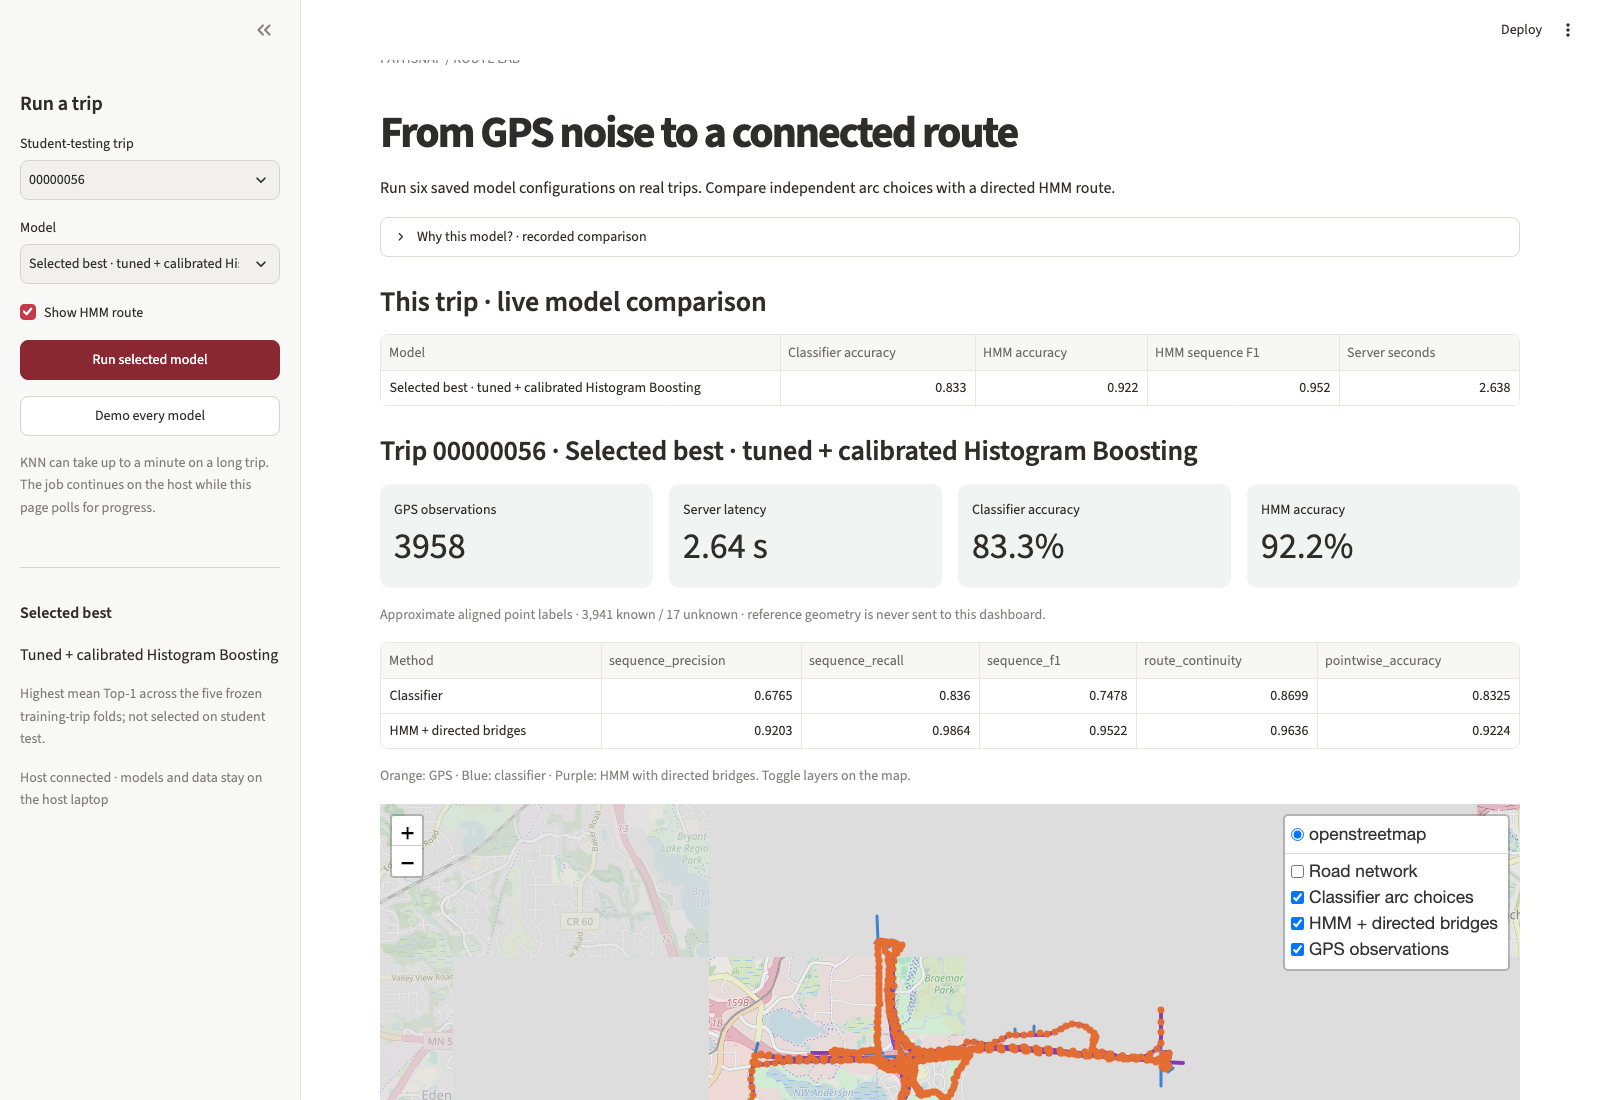
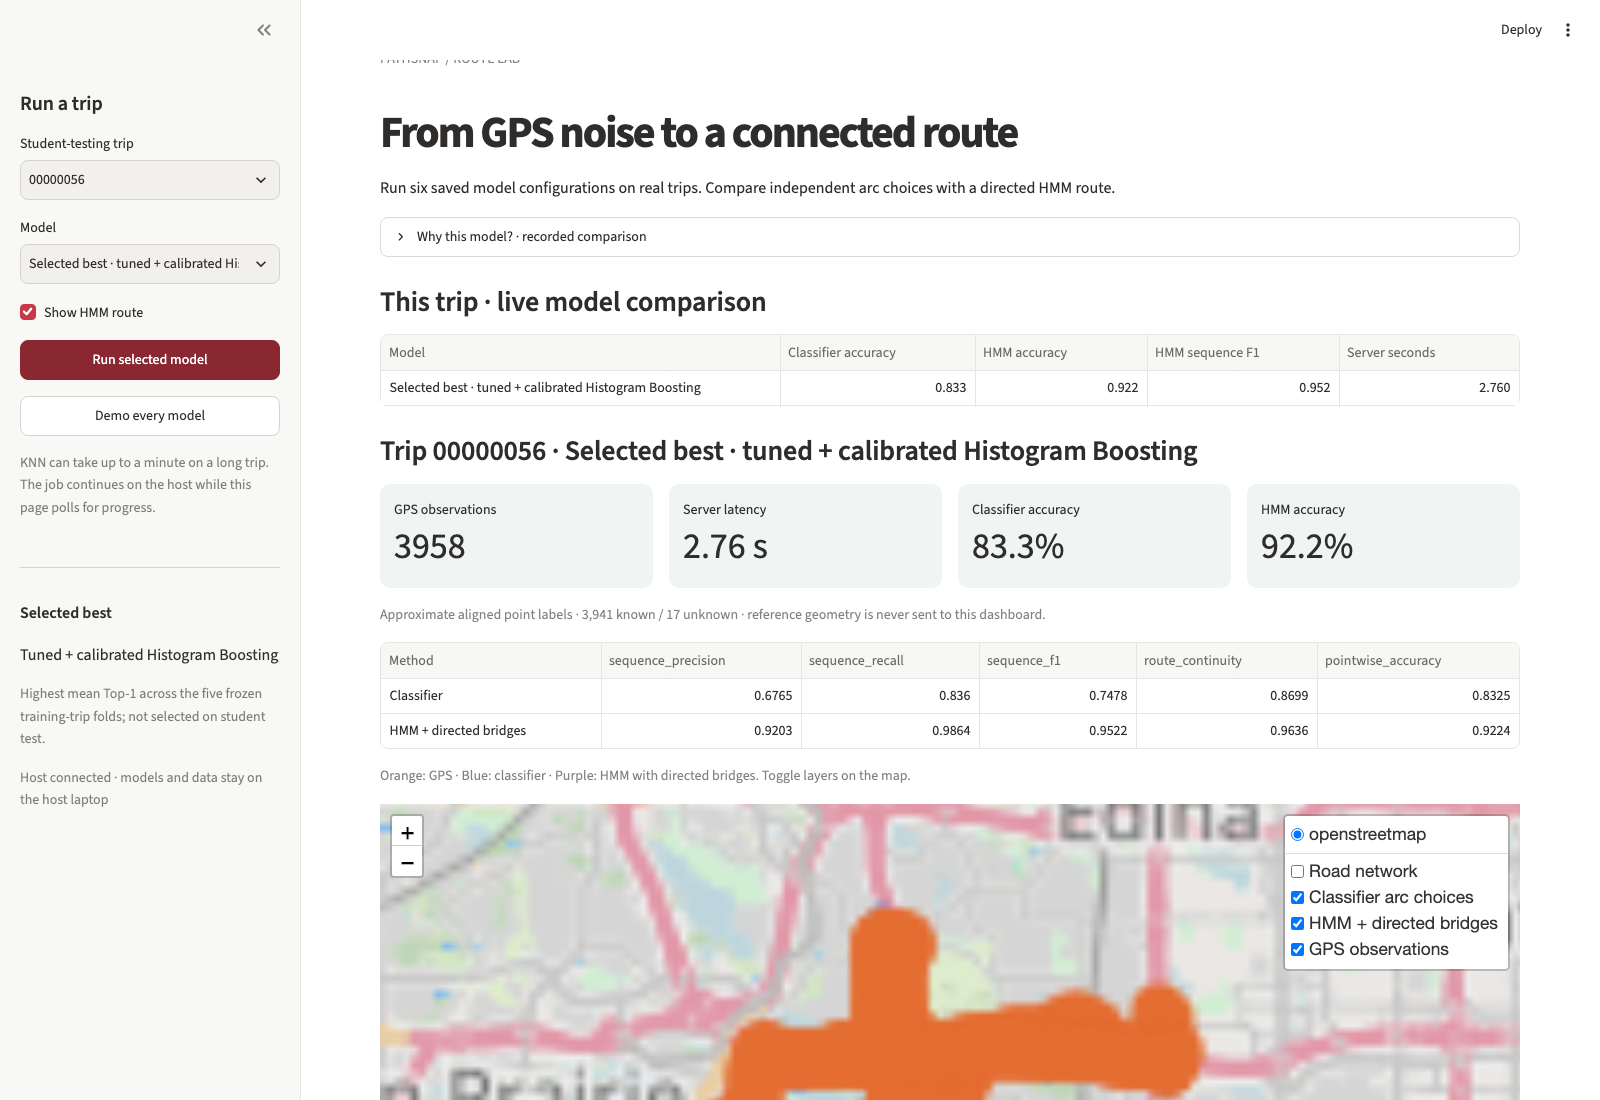
[refactor] update requirements and UI components; remove streamlit-folium dependency, replace with streamlit's HTML embedding for map rendering, and enhance iframe visibility handling in UI smoke tests.

diff --git a/ui/app.py b/ui/app.py
@@ -6,7 +6,7 @@ import pandas as pd
 import requests
 import streamlit as st
 from dotenv import load_dotenv
-from streamlit_folium import st_folium
+from streamlit.components.v1 import html as embed_html
 
 load_dotenv()
 API_URL = os.getenv("API_URL", "http://127.0.0.1:8000").rstrip("/")
@@ -162,7 +162,7 @@ group.add_to(route_map)
 folium.LayerControl(collapsed=False).add_to(route_map)
 route_map.fit_bounds(gps)
 st.caption("Orange: GPS · Blue: classifier · Purple: HMM with directed bridges. Toggle layers on the map.")
-st_folium(route_map, height=580, use_container_width=True, returned_objects=[], key=f"map-{trip}-{model}-{show_hmm}")
+embed_html(route_map.get_root().render(), height=580, scrolling=False)
 with st.expander("Timing and decoder diagnostics"):
     st.json(dict(stages_ms=result["stages_ms"], diagnostics=result["diagnostics"]))
 st.download_button("Download this prediction JSON", data=__import__("json").dumps(result, indent=2), file_name=f"pathsnap_{trip}_{model}.json", mime="application/json")

diff --git a/scripts/ui_smoke.py b/scripts/ui_smoke.py
@@ -27,8 +27,8 @@ def main():
             page.get_by_role('combobox').nth(index).click()
             page.get_by_role('option',name=value,exact=True).click()
         def map_ready():
-            page.locator('iframe').first.wait_for(timeout=60000)
-            frame=page.frame_locator('iframe').first
+            page.locator('iframe:visible').first.wait_for(timeout=60000)
+            frame=page.frame_locator('iframe:visible').first
             frame.locator('.leaflet-control-layers').wait_for(timeout=60000)
             return frame
         trips=['00000000','00000007','00000009','00000040','00000052','00000056','00000065','00000076','00000077','00000091']
